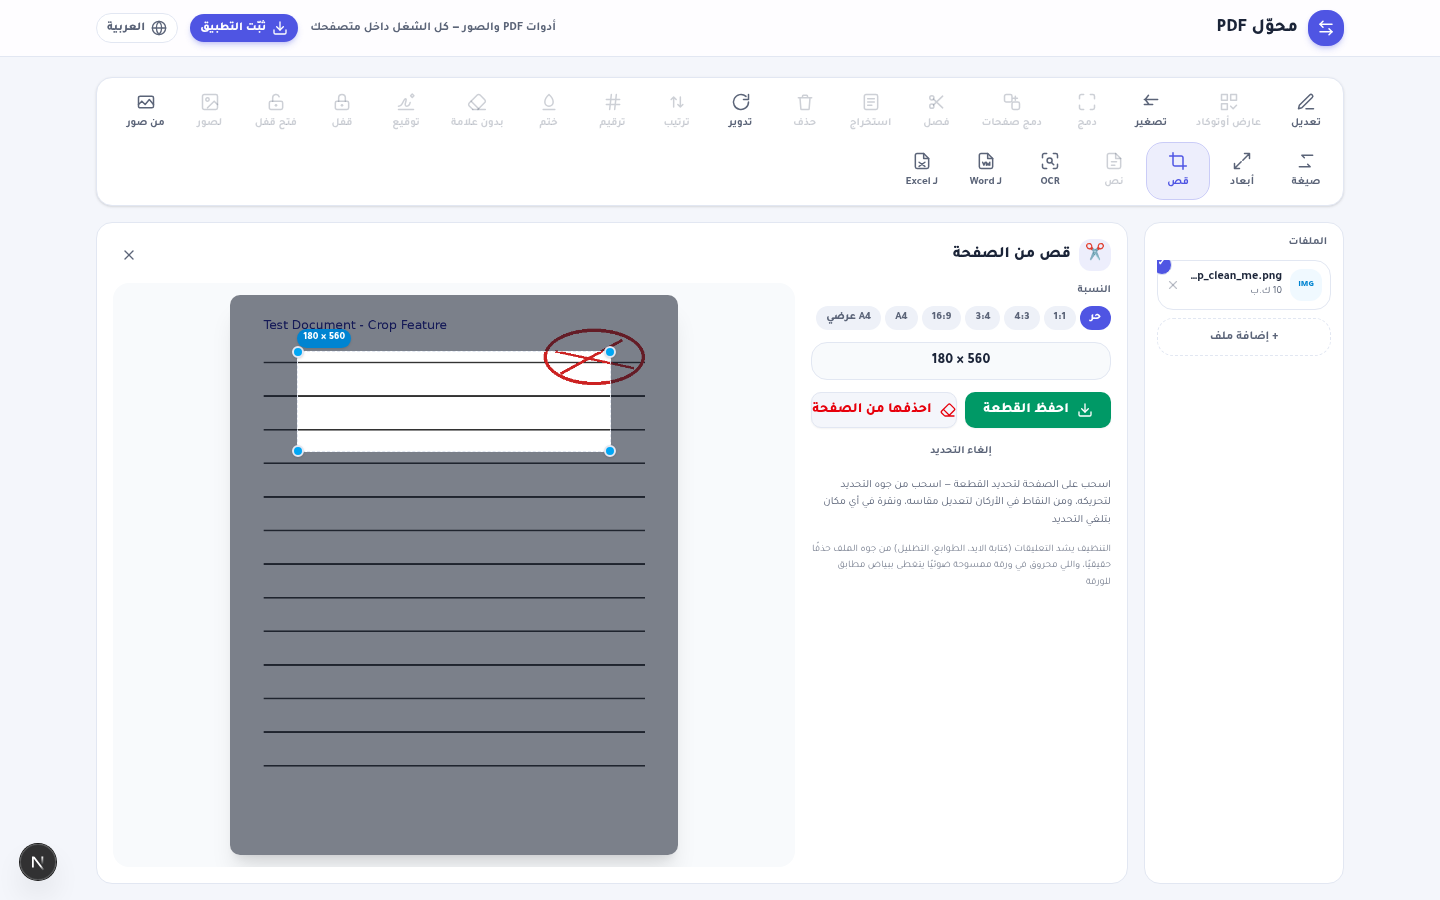
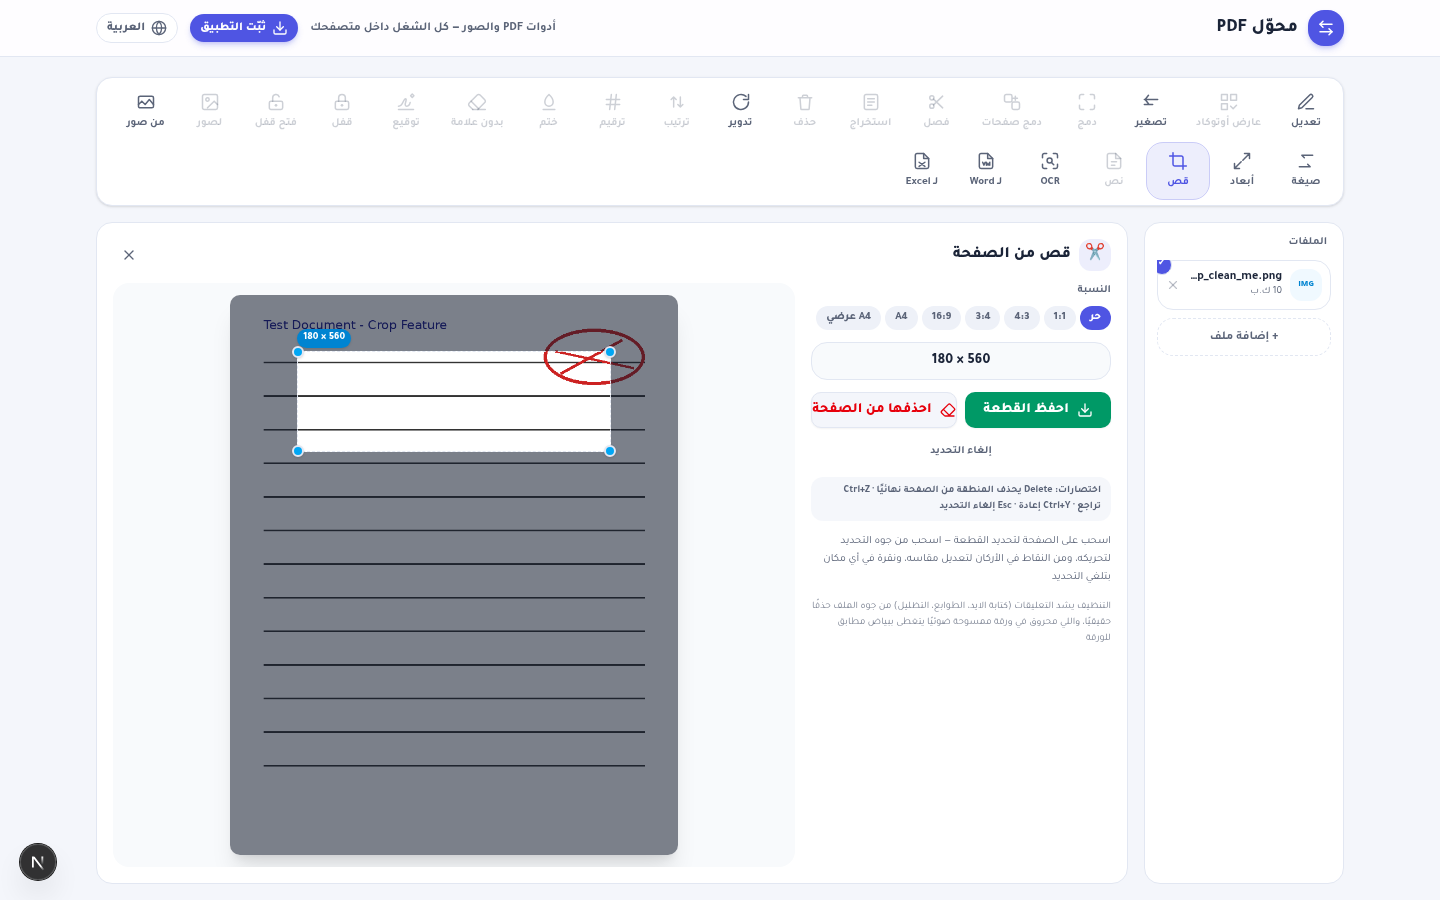
لوحة القص: اختصارات لوحة المفاتيح — Delete/Backspace يحذف المنطقة نهائيًا، Ctrl+Z تراجع، Ctrl+Y إعادة، Esc إلغاء التحديد

Changed region(s): [[0.5625, 0.5289, 0.7812, 0.7156], [0.75, 0.6844, 0.7812, 0.7156]]

diff --git a/src/components/pdf-station/crop-panel.tsx b/src/components/pdf-station/crop-panel.tsx
@@ -35,6 +35,10 @@ interface Props {
   onSavePiece: (name: string, blob: Blob) => Promise<void>;
   /** نتيجة تنظيف: تُضاف وتصير ملف العمل النشط — تكمل التنضيف على النسخة الجديدة */
   onCleaned: (name: string, blob: Blob) => Promise<void>;
+  /** تراجع عن آخر تنظيف (Ctrl+Z) — يعيد تفعيل النسخة السابقة؛ يعيد true إن وجد ما يُتراجع عنه */
+  onUndo: () => boolean;
+  /** إعادة آخر تنظيف مُتراجع عنه (Ctrl+Y / Ctrl+Shift+Z)؛ يعيد true إن وجد */
+  onRedo: () => boolean;
 }
 
 /* ─────────── رياضيات التحديد ─────────── */
@@ -97,6 +101,8 @@ export function CropPanel({
   onClose,
   onSavePiece,
   onCleaned,
+  onUndo,
+  onRedo,
 }: Props) {
   const { t } = useI18n();
   const [preview, setPreview] = useState("");
@@ -330,6 +336,50 @@ export function CropPanel({
     }
   };
 
+  /* ── اختصارات لوحة المفاتيح — كماليات زي الرسام ──
+     Delete / Backspace: يحذف المنطقة المحددة من الصفحة (تنظيف نهائي)
+     Ctrl+Z: تراجع عن آخر تنظيف — وإن لم يوجد ما يُتراجع عنه فَلغي التحديد
+     Ctrl+Shift+Z أو Ctrl+Y: إعادة · Esc: إلغاء التحديد */
+  const cleanRef = useRef(cleanRegion);
+  cleanRef.current = cleanRegion;
+  const undoRef = useRef(onUndo);
+  undoRef.current = onUndo;
+  const redoRef = useRef(onRedo);
+  redoRef.current = onRedo;
+
+  useEffect(() => {
+    const onKey = (e: KeyboardEvent) => {
+      const tgt = e.target as HTMLElement | null;
+      if (tgt && (tgt.tagName === "INPUT" || tgt.tagName === "TEXTAREA" || tgt.isContentEditable)) return;
+      if (e.key === "Delete" || e.key === "Backspace") {
+        if (sel && !busy) {
+          e.preventDefault();
+          cleanRef.current();
+        }
+        return;
+      }
+      if ((e.ctrlKey || e.metaKey) && e.key.toLowerCase() === "z") {
+        e.preventDefault();
+        if (e.shiftKey) {
+          if (redoRef.current()) toast.success(t("crop.redone"));
+        } else if (undoRef.current()) {
+          toast.success(t("crop.undone"));
+        } else {
+          setSel(null); /* لا تاريخ؟ التراجع يلغي التحديد زي الرسام */
+        }
+        return;
+      }
+      if ((e.ctrlKey || e.metaKey) && e.key.toLowerCase() === "y") {
+        e.preventDefault();
+        if (redoRef.current()) toast.success(t("crop.redone"));
+        return;
+      }
+      if (e.key === "Escape" && sel) setSel(null);
+    };
+    window.addEventListener("keydown", onKey);
+    return () => window.removeEventListener("keydown", onKey);
+  }, [sel, busy, t]);
+
   const sw = sel ? (sel.x1 - sel.x0) * 100 : 0;
   const sh = sel ? (sel.y1 - sel.y0) * 100 : 0;
 
@@ -440,6 +490,7 @@ export function CropPanel({
               disabled={busy}
               variant="outline"
               data-testid="crop-clean"
+              title={`${t("crop.clean")} · Delete`}
               className="border-red-200 font-extrabold text-red-600 hover:bg-red-50 hover:text-red-700"
             >
               <Eraser className="size-4" aria-hidden />
@@ -456,6 +507,12 @@ export function CropPanel({
             {t("crop.clear")}
           </button>
 
+          <p
+            data-testid="crop-kbd"
+            className="rounded-lg bg-muted/60 px-2.5 py-1.5 text-[10px] font-bold leading-relaxed text-muted-foreground"
+          >
+            {t("crop.kbd")}
+          </p>
           <p className="text-[11px] leading-relaxed text-muted-foreground">{t("crop.hint")}</p>
           <p className="text-[10px] leading-relaxed text-muted-foreground/80">{t("crop.cleanNote")}</p>
         </div>

diff --git a/src/components/pdf-station/workbench.tsx b/src/components/pdf-station/workbench.tsx
@@ -520,11 +520,35 @@ export function Workbench() {
     appendResult(name, blob, "crop");
   };
 
+  /* تاريخ تنظيف القص — أكوام أرقام الإصدارات للتراجع Ctrl+Z والإعادة Ctrl+Y
+     (كل تنظيف يولّد نسخة جديدة والأصل يظل محفوظًا في القائمة، فالتراجع = إعادة تفعيل النسخة السابقة) */
+  const cropUndoRef = useRef<string[]>([]);
+  const cropRedoRef = useRef<string[]>([]);
+
   /* نتيجة تنظيف: تُضاف وتصير ملف العمل النشط — تكمل التنضيف على النسخة الجديدة */
   const cropCleaned = async (name: string, blob: Blob) => {
     appendResult(name, blob, "crop");
+    if (activeFile) cropUndoRef.current.push(activeFile.id);
+    cropRedoRef.current = [];
     const newId = await addResultAsFile(name, blob);
     setActiveId(newId);
+  };
+
+  /* التراجع عن آخر تنظيف: النسخة السابقة تعود ملف العمل — يعيد true إن وجد ما يُتراجع عنه */
+  const cropUndoFn = () => {
+    const prev = cropUndoRef.current.pop();
+    if (!prev || !activeFile) return false;
+    cropRedoRef.current.push(activeFile.id);
+    setActiveId(prev);
+    return true;
+  };
+  /* الإعادة: النسخة المنضيفة تعود بعد تراجع — يعيد true إن وجد ما يُعاد */
+  const cropRedoFn = () => {
+    const next = cropRedoRef.current.pop();
+    if (!next || !activeFile) return false;
+    cropUndoRef.current.push(activeFile.id);
+    setActiveId(next);
+    return true;
   };
 
   /* اسم زرّ الأداة السياقي: الفعل + عدد الصفحات المختارة إن وُجد */
@@ -828,6 +852,8 @@ export function Workbench() {
                   onClose={() => setTool(null)}
                   onSavePiece={cropPieceSaved}
                   onCleaned={cropCleaned}
+                  onUndo={cropUndoFn}
+                  onRedo={cropRedoFn}
                 />
               </div>
             ) : signMode ? (

diff --git a/src/lib/i18n/hi.ts b/src/lib/i18n/hi.ts
@@ -259,6 +259,9 @@ export const hi: Record<string, string> = {
   "crop.cleanNote": "सफ़ाई एनोटेशन (हस्तलेखन, स्टाम्प, हाइलाइट) को फ़ाइल से पूरी तरह हटा देती है; स्कैन पेज में छपी सामग्री कागज़ से मेल खाती सफ़ेद परत से ढक जाती है",
   "crop.busyRender": "प्रीव्यू तैयार हो रहा है…",
   "crop.failed": "काम नहीं हुआ — फिर कोशिश करें",
+  "crop.kbd": "शॉर्टकट: Delete क्षेत्र को पेज से हमेशा के लिए हटाता है · Ctrl+Z पूर्ववत · Ctrl+Y पुनः · Esc चयन हटाएँ",
+  "crop.undone": "पूर्ववत हुआ — पिछले संस्करण पर वापस",
+  "crop.redone": "पुनः हुआ — साफ़ की गई कॉपी वापस",
   "cad.exporting": "निर्यात हो रहा है…",
   "cad.hideLayer": "लेयर {name} छिपाएँ",
   "cad.showLayer": "लेयर {name} दिखाएँ",

diff --git a/src/lib/i18n/ar.ts b/src/lib/i18n/ar.ts
@@ -268,6 +268,9 @@ export const ar: Record<string, string> = {
   "crop.cleanNote": "التنظيف يشد التعليقات (كتابة الايد، الطوابع، التظليل) من جوه الملف حذفًا حقيقيًا، واللي محروق في ورقة ممسوحة ضوئيًا يتغطى ببياض مطابق للورقة",
   "crop.busyRender": "جارٍ تجهيز المعاينة…",
   "crop.failed": "تعذّر تنفيذ العملية — جرّب تاني",
+  "crop.kbd": "اختصارات: Delete يحذف المنطقة من الصفحة نهائيًا · Ctrl+Z تراجع · Ctrl+Y إعادة · Esc إلغاء التحديد",
+  "crop.undone": "تم التراجع — رجعت للنسخة السابقة",
+  "crop.redone": "تمت الإعادة — النسخة المنضيفة قدامك",
   "cad.exporting": "جارٍ التصدير…",
   "cad.hideLayer": "إخفاء الطبقة {name}",
   "cad.showLayer": "إظهار الطبقة {name}",

diff --git a/src/lib/i18n/en.ts b/src/lib/i18n/en.ts
@@ -259,6 +259,9 @@ export const en: Record<string, string> = {
   "crop.cleanNote": "Cleaning truly deletes annotations (handwriting, stamps, highlights) from the file structure; content baked into a scanned page is covered with a white patch matching the paper",
   "crop.busyRender": "Preparing the preview…",
   "crop.failed": "Could not run the operation — try again",
+  "crop.kbd": "Shortcuts: Delete removes the region from the page for good · Ctrl+Z undo · Ctrl+Y redo · Esc clear selection",
+  "crop.undone": "Undone — back to the previous version",
+  "crop.redone": "Redone — the cleaned copy is back",
   "cad.exporting": "Exporting…",
   "cad.hideLayer": "Hide layer {name}",
   "cad.showLayer": "Show layer {name}",
